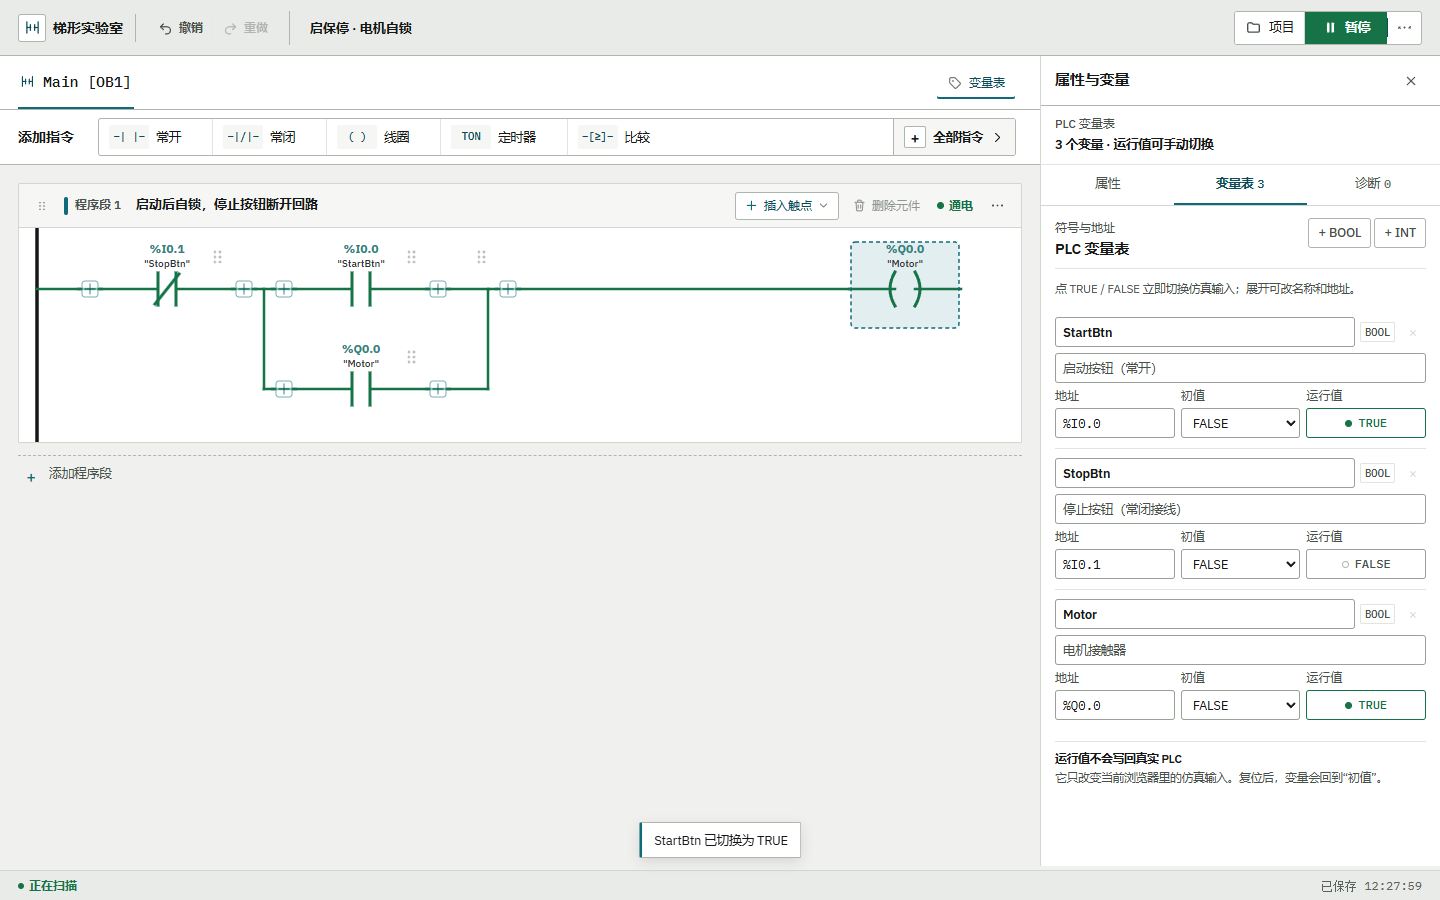
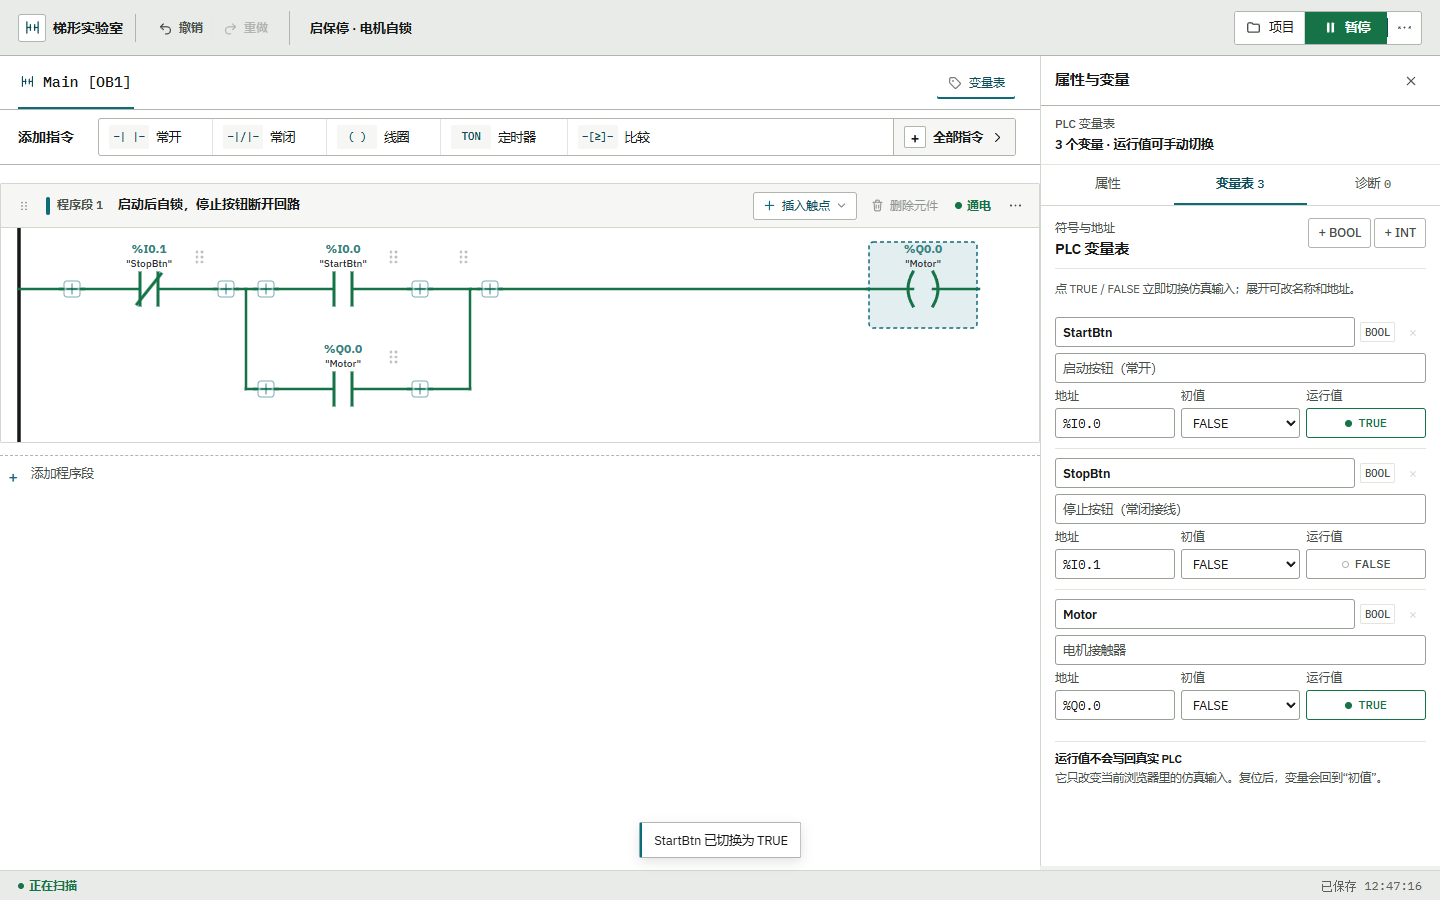
让程序区铺满画布并支持任意留白取消选中

diff --git a/src/App.tsx b/src/App.tsx
@@ -1493,6 +1493,23 @@ export default function App() {
   /** 手机端一次只允许一层底部面板；提示条需要知道它是否被面板占住了底部。 */
   const sheetOpen = Boolean(quickEdit) || mobilePanel !== 'none'
 
+  /** 点界面任意非交互留白都取消元件选中；图纸内部仍由画布处理。 */
+  const clearSelectionOnBlankPointerDown = (event: {
+    button: number
+    target: EventTarget | null
+  }) => {
+    if (event.button !== 0 || !selection || !(event.target instanceof Element)) return
+    if (event.target.closest(
+      '.ll-canvas, .qe-panel, .wb-context-panel, dialog, '
+      + 'button, input, textarea, select, label, a, summary, '
+      + '[contenteditable="true"], [role="button"], [role="menu"], '
+      + '[role="menuitem"], [role="dialog"], [role="alertdialog"], '
+      + '[role="listbox"], [role="complementary"]',
+    )) return
+    setSelection(null)
+    setQuickEdit(null)
+  }
+
   // 停靠的变量表是页面的一部分，不抢焦点；但按 Esc 也应该能收起，
   // 并把焦点交还给打开它的按钮。手机端的变量面板是对话框，由它自己处理 Esc。
   useEffect(() => {
@@ -1532,6 +1549,7 @@ export default function App() {
       data-mobile-panel={mobilePanel}
       data-sheet={sheetOpen ? 'open' : 'closed'}
       data-inspector={inspectorVisible ? 'open' : 'closed'}
+      onPointerDown={clearSelectionOnBlankPointerDown}
     >
       <WorkspaceTopBar
         projectName={program.name}
@@ -1915,6 +1933,8 @@ export default function App() {
             onClick={() => {
               setInspectorOpen(false)
               setMobilePanel('none')
+              setSelection(null)
+              setQuickEdit(null)
             }}
             aria-label="关闭属性面板"
           />

diff --git a/src/Shell.css b/src/Shell.css
@@ -675,7 +675,7 @@ body[data-drag-kind] {
 .wb-program-inner {
   display: flex;
   width: 100%;
-  max-width: 1360px;
+  max-width: none;
   flex-direction: column;
   gap: 12px;
   margin: 0 auto;
@@ -3035,6 +3035,8 @@ body[data-drag-kind] {
 
 /* The sheet should read as white drafting paper, not a tiled dashboard. */
 .wb-program-pane {
+  padding-inline: 0;
+  background: var(--surface);
   background-image: none;
 }
 
